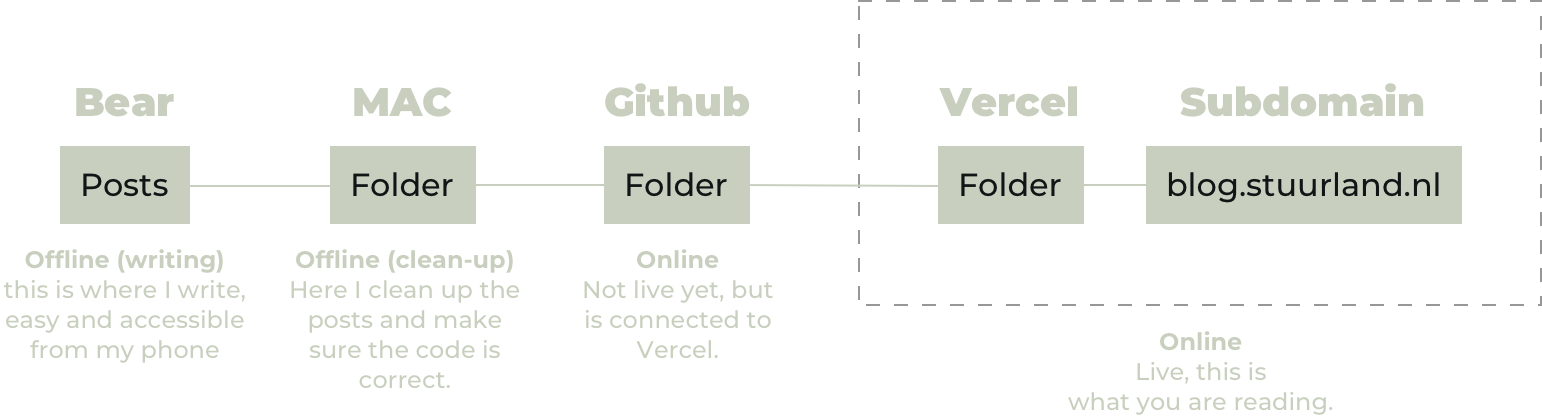
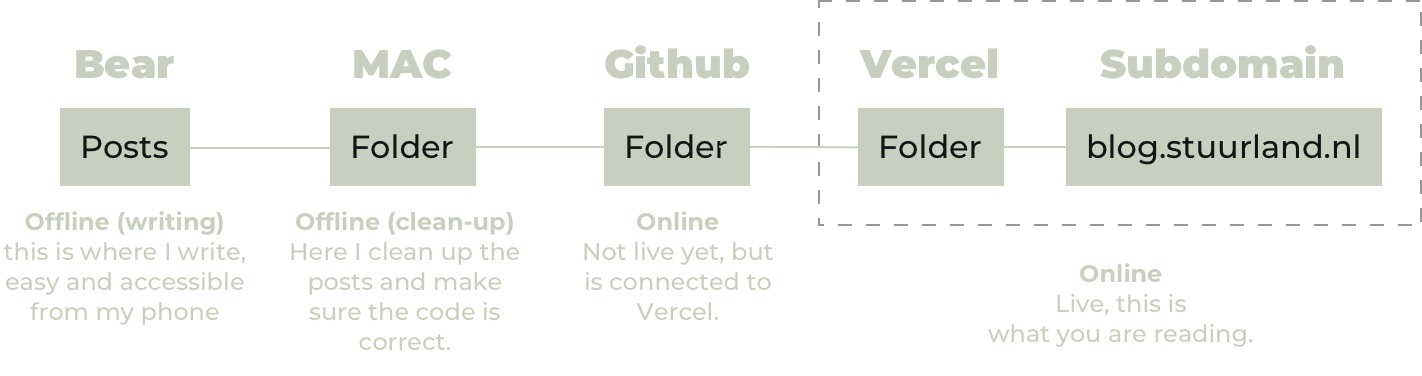
textual clean ups, image optimalisation

diff --git a/blog-posts/first.html b/blog-posts/first.html
@@ -26,18 +26,20 @@
         <div class="note-wrapper">
 						<h1 id="postTitle">The Introduction</h1>
 							<p>
-								I've created this little thing in about 2-3 days. I started coding after a post on LinkedIn	inspired me. 
-								And now we're here.
+								I've created this little thing in about 2-3 days. I started coding after a post on LinkedIn	inspired me and now we're here.
 							</p>
 							<p>
 								I wanted to do something simple and easy so I've created a <a target="_blank" href="https://bear.app/">Bear.app</a> account.
-								This is a private markdown app on the iPhone, iPad and Mac. Through that I can write the simple ideas of the posts I want to do.
+								This is a private markdown app on the iPhone, iPad and Mac. Through that I can write the simple ideas of concepts that I have for this... platform? No idea what it is yet.
+							</p>
+
+							<p>
 								I can then export these posts to the github folder on my desktop through my phone (iCloud is quite handy), and then I can upload them 
 								and clean up the blog posts on my mac.
 							</p>
 
 							<p>To make deployment even easier I've set-up a <a target="_blank" href="https://vercel.com/">Vercel server</a> that is linked to the github
-								page that I previously spoke about, this I then linked to a subdomain and tadaaa the blog is here. And most of it happens automatic, the only 
+								page that I previously spoke about, this I then linked to a subdomain and tadaaa you are reading the result of all that. And most of it happens automatic, the only 
 								thing I really need to do is edit the post, commit & push it to github. If all this sounds foreign to you then I've created this little graphic for you.
 							</p>
 
@@ -46,9 +48,9 @@
 							</figure>
 
 							<p>
-								You can expect me to just learn by doing. I've never maintained a blog before, I was never 
+								You can expect me to fumble and try out some things along the way. I've never maintained a blog structure before, I was never 
 								the type to really write down thoughts or give it more structure than needed. I think I will mostly
-								talk about design, concepts, things that inspire me and perhaps if it get's there small interviews with 
+								talk about design, concepts, things that inspire me and perhaps if it get there small interviews with 
 								some of my friends or acquaintances.
 							</p>
 

diff --git a/index.html b/index.html
@@ -33,7 +33,7 @@
 
 	<main>
 		<section>
-		<img src="https://via.placeholder.com/100x200/ED6A5A/fff.png?text=%22"/>
+		<img src="media/First.png"/>
 		<div class="summary">
 			<div class="tags"></div>
 			The first post and general idea of this platform/website.

diff --git a/css/style.css b/css/style.css
@@ -474,6 +474,7 @@ section a{
 	color: var(--link);
 	text-decoration: none;
 	display: inline-block;
+	border-radius: 2px;
 	background-color: var(--light);
 	font-family: var(--heading-font);
 }
